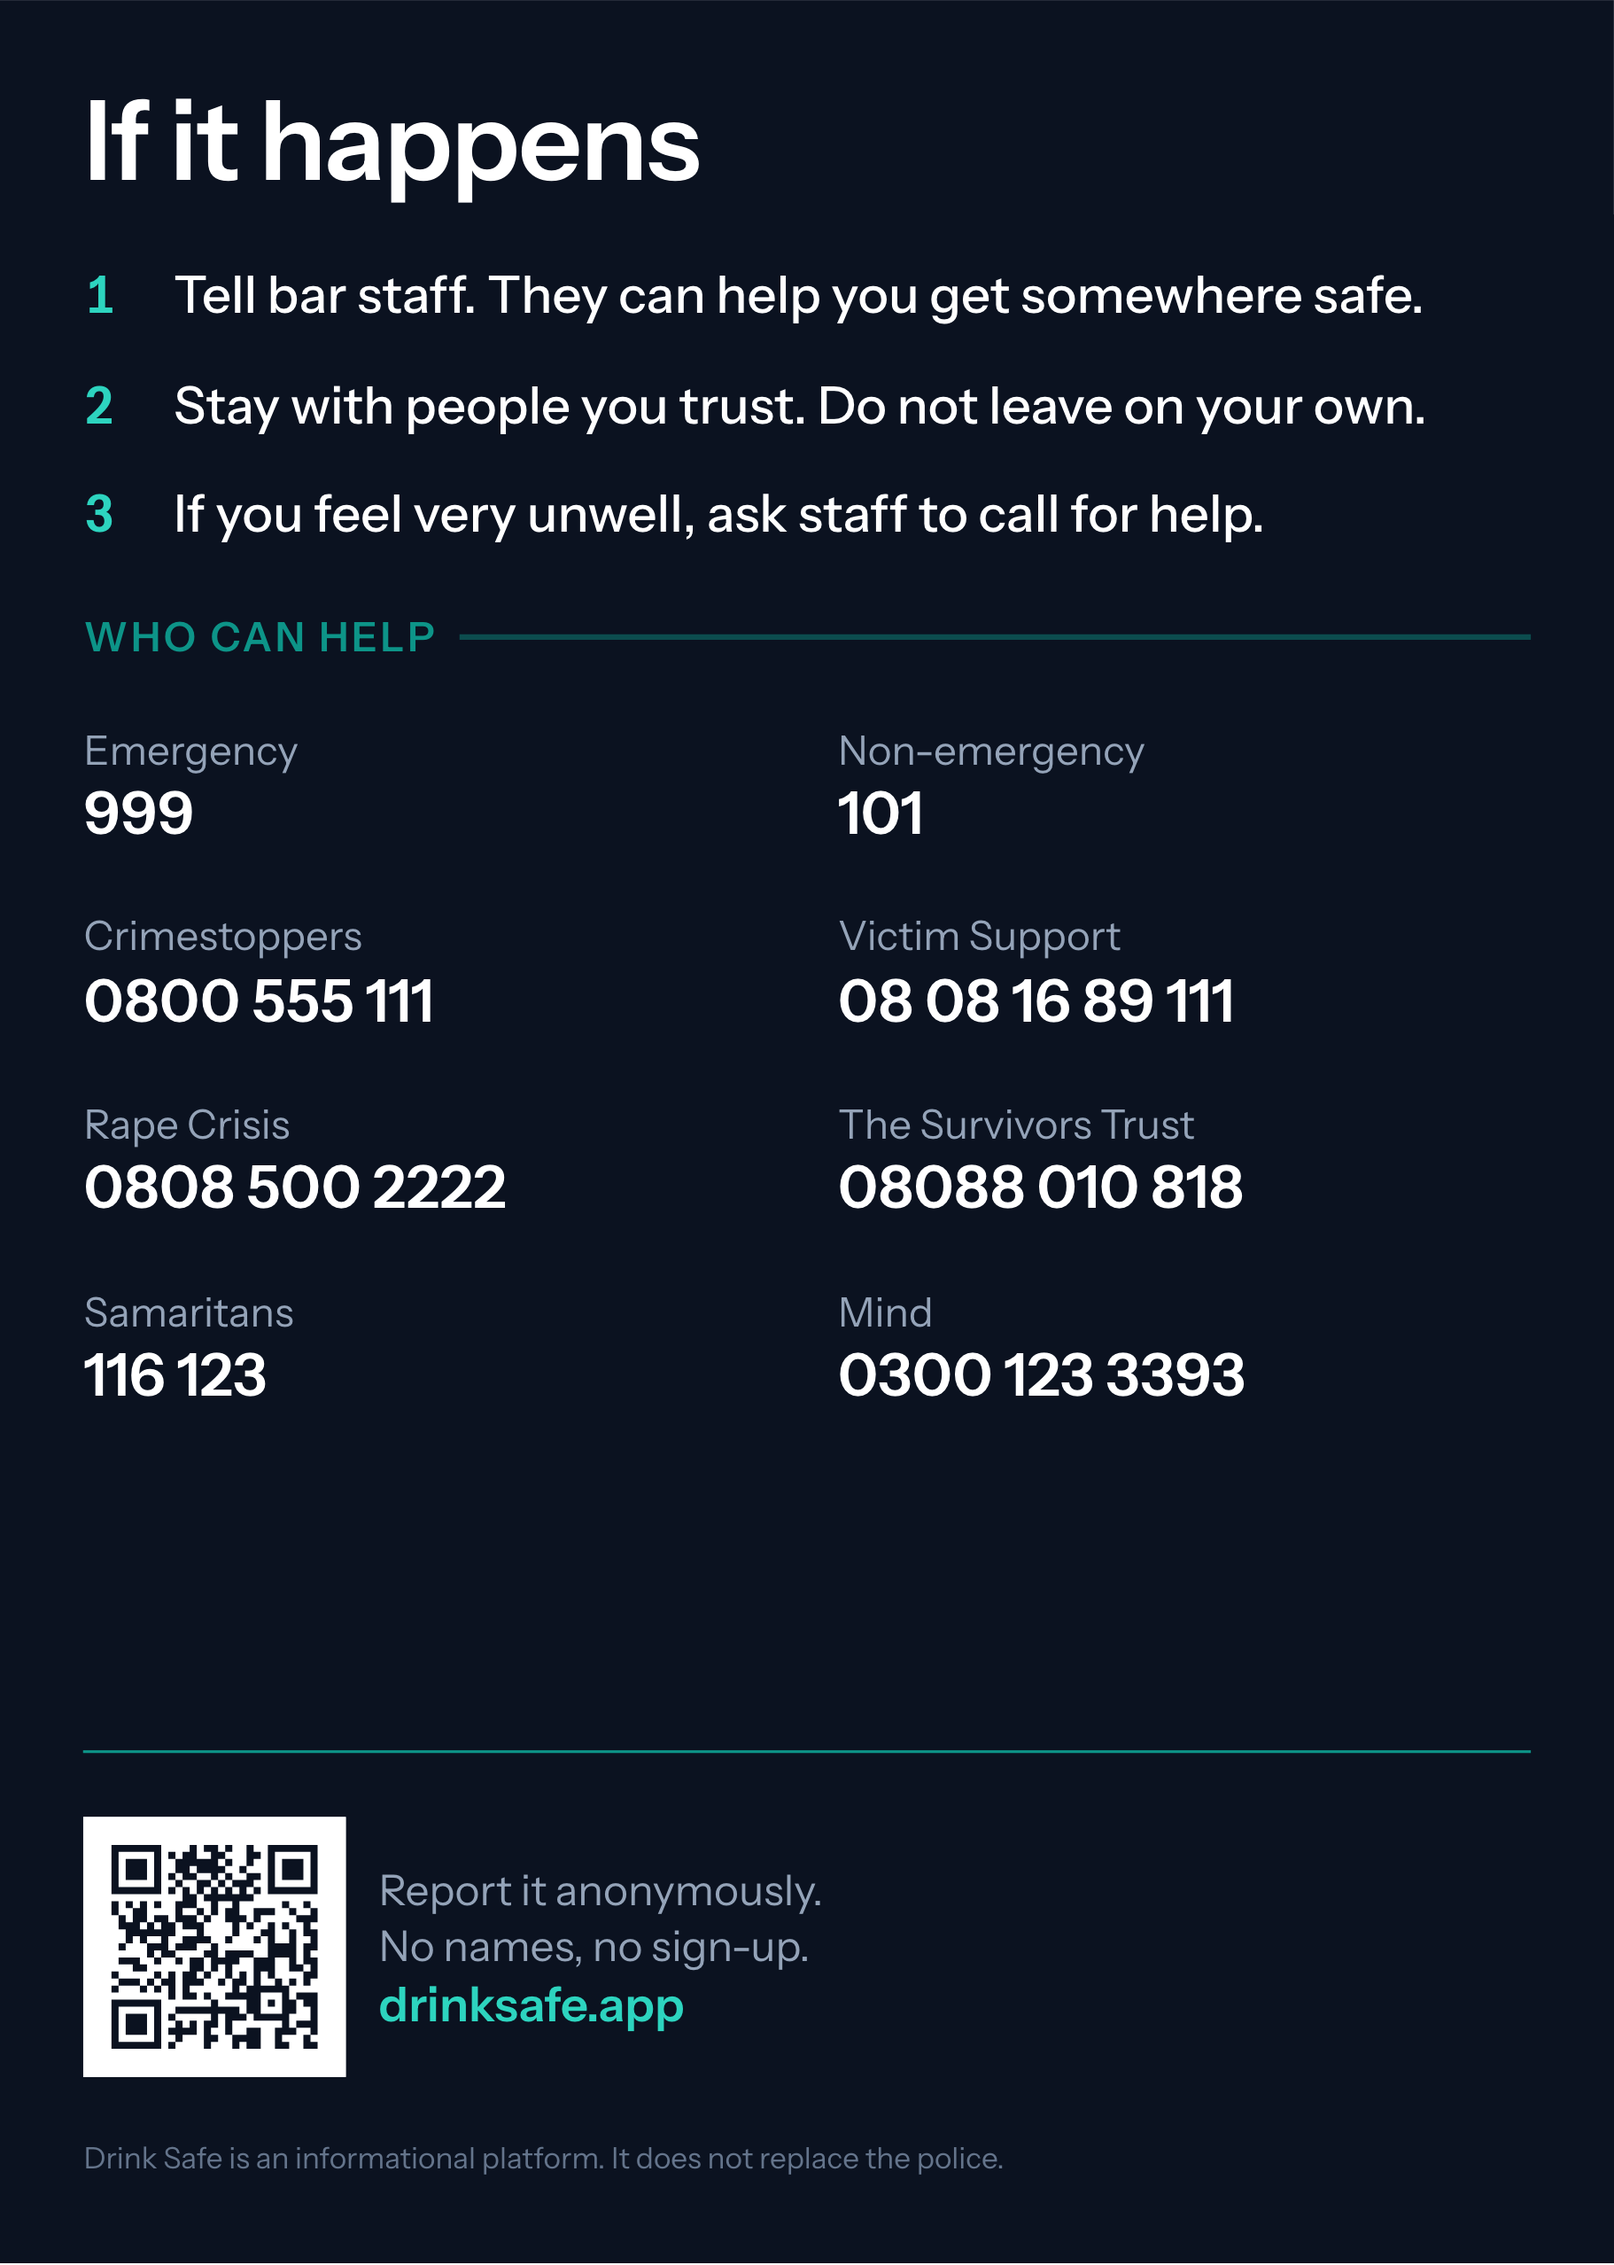
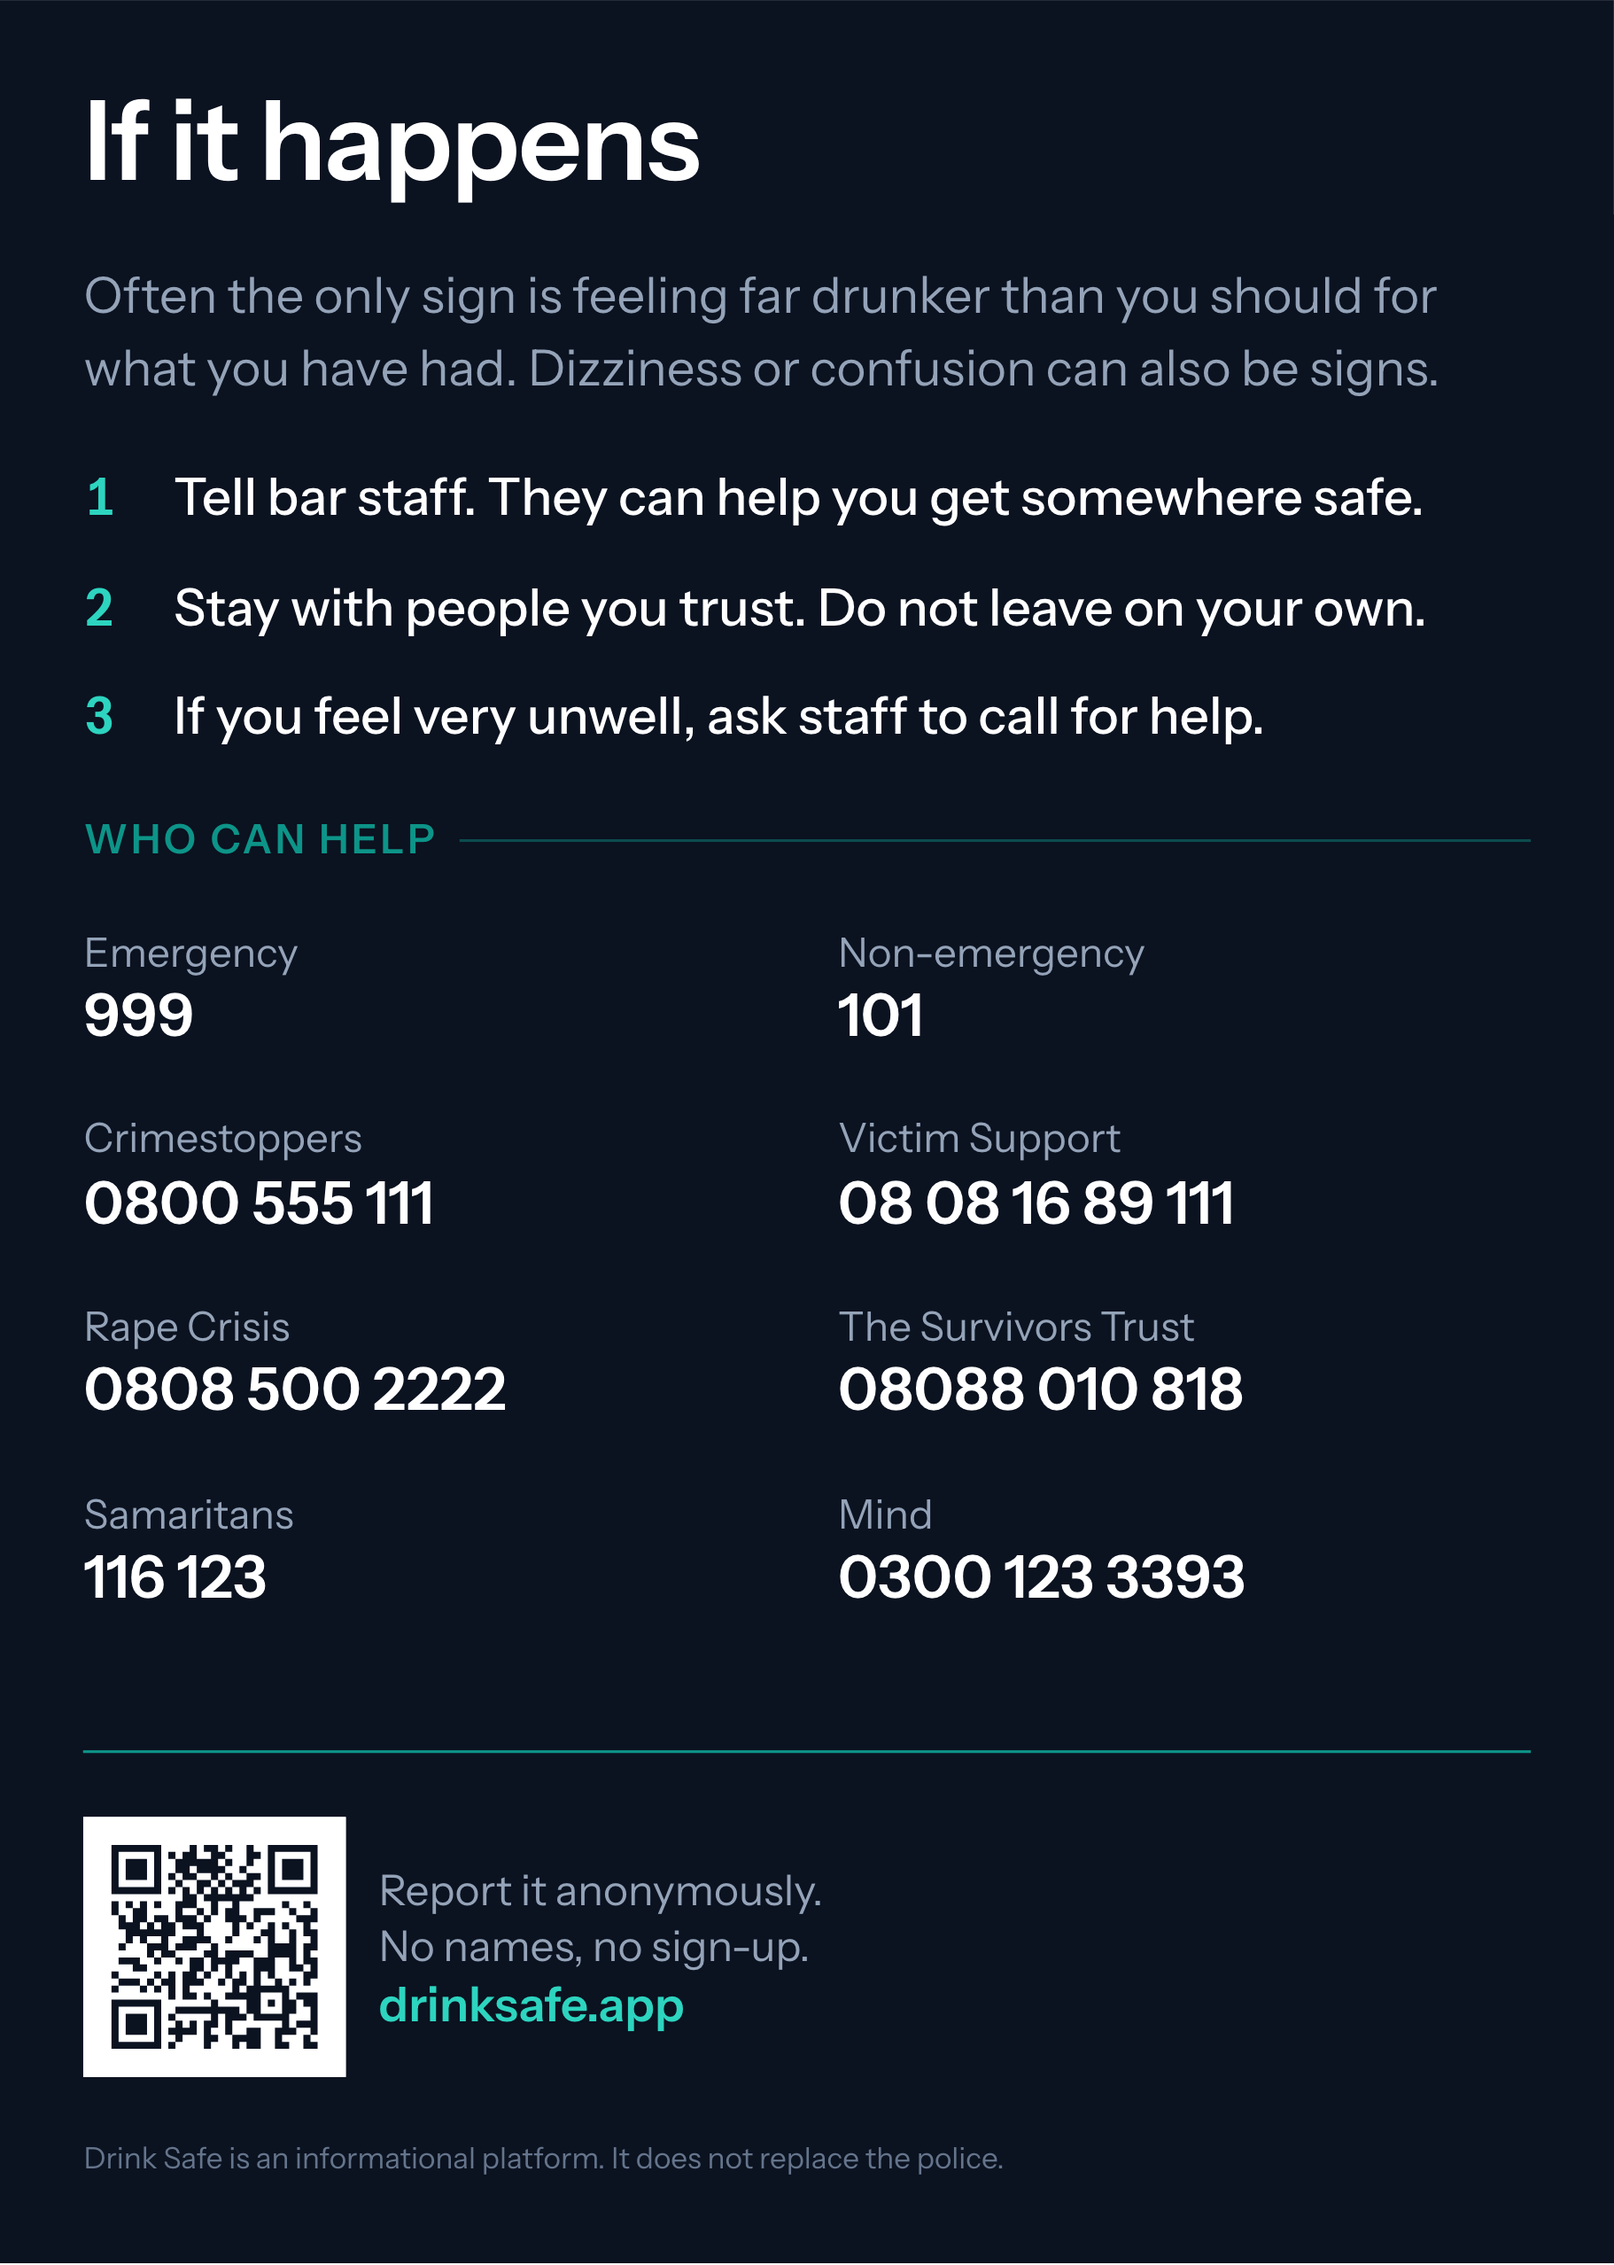
Carry the spiking signs onto the flyer
The flyer covered avoiding a spiking and what to do afterwards, but
never how to recognise one. The same line now sits between the "If it
happens" heading and the steps, so the back reads as how you would know
followed by what to do.

The About page still has no equivalent, which the design document now
records as the one place where the print and the site disagree.

diff --git a/print/artwork/flyer.html b/print/artwork/flyer.html
@@ -129,6 +129,11 @@
     <div class="safe">
         <h1 style="font-size: 30pt;">If it happens</h1>
 
+        <p class="lede">
+            Often the only sign is feeling far drunker than you should for what
+            you have had. Dizziness or confusion can also be signs.
+        </p>
+
         <ol class="steps">
             <li><span class="n">1</span><span>Tell bar staff. They can help you get somewhere safe.</span></li>
             <li><span class="n">2</span><span>Stay with people you trust. Do not leave on your own.</span></li>

diff --git a/docs/active/print-collateral/print-collateral-design.md b/docs/active/print-collateral/print-collateral-design.md
@@ -127,6 +127,13 @@ FRONT                                   BACK
 
 ▣ Drink Safe        mark 17mm          If it happens             30pt / 600
                     wordmark 15pt
+Often the only sign is    13.5pt / 400
+                                       feeling far drunker than  #94A3B8
+                                       you should for what you
+                                       have had. Dizziness or
+                                       confusion can also be
+                                       signs.
+
                                        1 Tell bar staff. They    14pt / 500
 Looking out for     38pt / 600           can help you get
 each other                               somewhere safe.
@@ -175,6 +182,11 @@ QR target: `https://drinksafe.app/submit-report`
 The five tips, the support numbers and the small print are taken word for word from the About
 page and the footer disclaimer, so the print and the site cannot drift apart. If the site's
 wording changes, the artwork changes with it.
+
+The one exception is the line about what being spiked feels like, which appears on both the
+sticker and the flyer but has no equivalent on the site. The About page's safety tips cover
+avoiding it and what to do afterwards, but never how to recognise it. Adding it there would
+close the gap and put the print and the site back in step.
 
 ## QR codes
 
